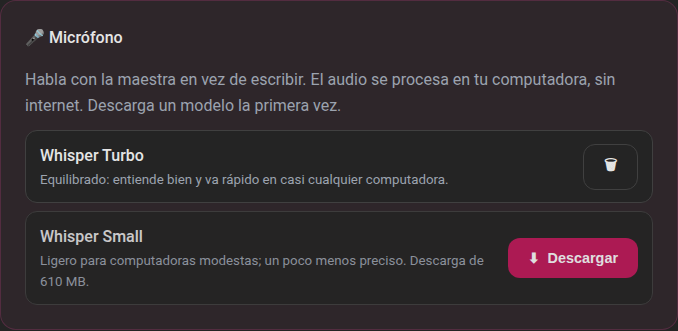
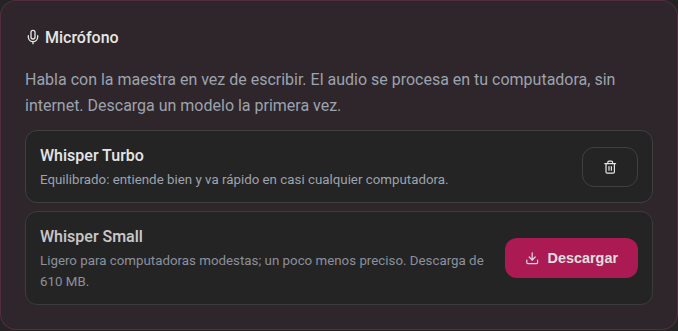
docs: README (es/en), instalación, capturas nuevas y bitácora del rediseño de la interfaz

diff --git a/scripts/capturas/capturas.spec.ts b/scripts/capturas/capturas.spec.ts
@@ -67,7 +67,7 @@ test('configuracion de la interfaz', async ({ page }) => {
   await open(page);
   await page.getByRole('button', { name: /configuraci[oó]n/i }).click();
   await page.waitForSelector('.ui-prefs');
-  await page.locator('.provider-section').first().screenshot({ path: `${DIR}/configuracion.png` });
+  await page.locator('#set-interface .provider-section').screenshot({ path: `${DIR}/configuracion.png` });
 });
 
 test('modelos de voz para el microfono', async ({ page }) => {
@@ -145,4 +145,22 @@ test('practicar dictando operaciones', async ({ page }) => {
   await expect(page.getByRole('complementary', { name: /dicta las operaciones/i })).toBeVisible();
   await chalkDone(page);
   await page.locator('.workspace').screenshot({ path: `${DIR}/practica.png` });
+});
+
+test('configuracion con indice de secciones', async ({ page }) => {
+  await open(page);
+  await page.getByRole('button', { name: /configuraci[oó]n/i }).click();
+  await expect(page.getByRole('navigation', { name: /secciones/i })).toBeVisible();
+  await page.getByRole('dialog').screenshot({ path: `${DIR}/ajustes-indice.png` });
+});
+
+test('movil: pizarra a la vista y chat plegable', async ({ page }) => {
+  await page.setViewportSize({ width: 390, height: 844 });
+  await open(page);
+  await solve(page, '2x + 4 = 10');
+  await chalkDone(page);
+  await page.screenshot({ path: `${DIR}/movil.png` });
+  await page.getByRole('button', { name: 'Preguntas' }).click();
+  await expect(page.getByLabel('Tu pregunta para la maestra')).toBeVisible();
+  await page.screenshot({ path: `${DIR}/movil-chat.png` });
 });

diff --git a/README.md b/README.md
@@ -15,7 +15,12 @@ Aplicación de escritorio (Tauri v2 + React/TypeScript) que enseña a niños a r
 - **Visuales**: balanza para ecuaciones, pizzas y rectángulos para fracciones.
 - **Chat de preguntas** sobre cada paso (`StepChat`).
 - **Micrófono**: dicta tus preguntas en voz alta; Whisper transcribe el audio en la propia computadora, sin internet. El modelo de voz se descarga desde Configuración › Micrófono.
-- **Botones junto al problema**: **🎤 Hablar** dicta el problema al cuadro de texto y **➕➗ Símbolos** abre un teclado de símbolos (`+ − × ÷ = / ( ) √ ² ³ ^ x y .`) para quien no sabe sacarlos con el teclado. Ambos son accesibles (nombre hablado, foco visible, Escape cierra).
+- **Voz y símbolos dentro del cuadro del problema**: **Hablar** dicta el problema al cuadro de texto y **Símbolos** abre un teclado de símbolos (`+ − × ÷ = / ( ) √ ² ³ ^ x y .`) para quien no sabe sacarlos con el teclado. Ambos son accesibles (nombre hablado, foco visible, Escape cierra).
+- **La entrada se aparta cuando hay pizarra**: el cuadro del problema se reduce a una barra con el problema y **Nuevo problema**, y el panel de temas pasa debajo de la pizarra.
+- **Pensada para el celular**: en pantallas estrechas el chat es una hoja plegable fija abajo (se abre al tocar el número de un paso, Escape la cierra) y nada se sale de la pantalla.
+- **Sin modelo, la app lo explica**: lo que necesita IA avisa con un botón **Elegir un modelo** que abre Configuración, y el botón **Resolver** dice por qué está deshabilitado.
+- **Configuración con índice** (*Modelos · Voz · Interfaz · Avanzado*), cabecera fija y botón para cerrar.
+- **Iconos Lucide** (`lucide-react`) en lugar de emojis; solo se conservan los personajes de la maestra y el niño y el 🎉 de celebración.
 - **Cuentas dichas con palabras**: "divide trescientos entre cincuenta" o "multiplica 12 por 3" se resuelven en la pizarra con todo el procedimiento.
 - **Ejemplos desde el chat**: al preguntar, la maestra pregunta si quieres la respuesta aquí o que lo desarrolle en la pizarra; si eliges la pizarra, puedes **borrar y escribir** o ponerlo en **otra pizarra aparte** sin perder la principal.
 - **Practicar dictando operaciones**: en una ecuación de primer grado, el modo práctica deja que el niño dicte operaciones ("sumar 3", "dividir entre 4") y la pizarra las ejecuta paso a paso con la balanza; si no se entiende, la maestra pregunta en vez de ejecutar.
@@ -59,22 +64,24 @@ en `src/lib/board/parse.ts`).
 | ![Pizarras de una en una](docs/capturas/pizarras.png) | ![Configuración de la interfaz](docs/capturas/configuracion.png) |
 | **Pizarras de una en una**: los botones *Pizarra N* cambian de pizarra y *Ver todas* las junta. | **Configuración › Interfaz**: pizarras, reproducción automática, panel de temas y tema. |
 | ![Micrófono](docs/capturas/microfono.png) | ![Dictado en el chat](docs/capturas/chat-microfono.png) |
-| **Configuración › Micrófono**: descarga el modelo de voz una vez; el audio no sale del equipo. | **Hablar en el chat**: pulsa 🎤, habla y el dictado se envía como pregunta. |
+| **Configuración › Micrófono**: descarga el modelo de voz una vez; el audio no sale del equipo. | **Hablar en el chat**: pulsa el micrófono, habla y el dictado se envía como pregunta. |
 | ![Símbolos matemáticos](docs/capturas/simbolos.png) | ![Cuenta dicha con palabras](docs/capturas/divide-palabras.png) |
-| **Símbolos y voz junto al problema**: cada tecla trae su nombre hablado y Escape cierra el panel. | **"divide trescientos entre cincuenta"** se resuelve en la casita, paso a paso. |
+| **Símbolos y voz dentro del cuadro del problema**: cada tecla trae su nombre hablado y Escape cierra el panel. | **"divide trescientos entre cincuenta"** se resuelve en la casita, paso a paso. |
 | ![El chat pregunta cómo quieres la respuesta](docs/capturas/chat-pizarra.png) | ![Ejemplo en otra pizarra](docs/capturas/pizarra-aparte.png) |
 | **Antes de contestar**, la maestra pregunta si quieres la respuesta aquí o desarrollada en la pizarra. | **Otra pizarra aparte**: el ejemplo se resuelve debajo sin tocar la pizarra principal. |
-| ![Practicar dictando operaciones](docs/capturas/practica.png) | |
-| **Practicar dictando**: dices "sumar 3" o "dividir entre 4" y la balanza lo hace en los dos lados. | |
+| ![Practicar dictando operaciones](docs/capturas/practica.png) | ![Configuración con índice](docs/capturas/ajustes-indice.png) |
+| **Practicar dictando**: dices "sumar 3" o "dividir entre 4" y la balanza lo hace en los dos lados. | **Configuración con índice**: *Modelos · Voz · Interfaz · Avanzado* saltan a cada sección y el botón de cerrar queda fijo. |
+| ![Celular: pizarra a la vista](docs/capturas/movil.png) | ![Celular: chat abierto](docs/capturas/movil-chat.png) |
+| **En el celular** la pizarra queda a la vista y el chat es una barra plegable abajo. | **Chat abierto**: se despliega sobre la pizarra y se cierra con Escape o tocando la barra. |
 
 Las capturas se generan con `npm run capturas` (Playwright con el backend simulado de los e2e) y se guardan en
 `docs/capturas/`.
 
 ## Micrófono
 
-1. En **⚙ Configuración › 🎤 Micrófono**, descarga un modelo de voz (Whisper Turbo o Small) la primera vez.
-2. Pulsa **🎤** y habla; al detectar silencio, el audio se transcribe. Hay dos botones de micrófono:
-   - **Junto a "Resolver problema"** (**🎤 Hablar**): lo dicho se escribe en el cuadro del problema, para revisarlo
+1. En **Configuración › Micrófono**, descarga un modelo de voz (Whisper Turbo o Small) la primera vez.
+2. Pulsa el botón del **micrófono** y habla; al detectar silencio, el audio se transcribe. Hay dos botones de micrófono:
+   - **Dentro del cuadro del problema** (**Hablar**): lo dicho se escribe en el cuadro del problema, para revisarlo
      antes de resolver.
    - **En el chat de un paso**: lo dicho se envía como pregunta.
 3. Todo se procesa en la computadora, sin internet. El micrófono es de quien lo activó: lo dictado en el cuadro del
@@ -84,7 +91,7 @@ Las capturas se generan con `npm run capturas` (Playwright con el backend simula
 
 ## Símbolos matemáticos
 
-El botón **➕➗ Símbolos**, junto al cuadro del problema, abre un teclado con `+ − × ÷ = / ( ) √( ² ³ ^ x y .` para quien
+El botón **Símbolos**, dentro del cuadro del problema (abajo a la derecha), abre un teclado con `+ − × ÷ = / ( ) √( ² ³ ^ x y .` para quien
 no sabe sacarlos con el teclado. Cada tecla escribe el símbolo donde está el cursor y trae su nombre hablado
 ("raíz cuadrada", "al cuadrado") para lectores de pantalla; **Escape** lo cierra y devuelve el foco al botón
 (`src/components/MathKeypad.tsx`).
@@ -108,7 +115,9 @@ explica al modelo cuándo usar la etiqueta.
 
 ## Configuración de la interfaz
 
-En **⚙ Configuración › 🎨 Interfaz** (se guarda en el equipo):
+**Configuración** se abre como un diálogo con la cabecera fija y un índice (*Modelos · Voz · Interfaz · Avanzado*) que salta a cada sección; **Modelos** va primero porque es lo que hace falta para empezar. Se cierra con la ✕ o con Escape.
+
+En **Configuración › Interfaz** (se guarda en el equipo):
 
 - **Pizarras de un proceso largo**: *Una a la vez* (por defecto, ahorra espacio) o *Todas juntas*. En la pizarra,
   el botón *Ver todas* / *Una a la vez* cambia solo ese problema.
@@ -128,7 +137,7 @@ En **⚙ Configuración › 🎨 Interfaz** (se guarda en el equipo):
   Kokoro (~334 MB, más expresiva, con voz de mujer y de hombre), en español o en inglés (según el idioma de la app),
   o se usa la voz del sistema (`espeak-ng`; la app detecta tu distribución y te dice qué instalar si falta). La maestra lee las
   matemáticas en palabras ("2x + 3y = 6" → "dos equis más tres ye igual a seis") y la pizarra avanza al terminar cada
-  audio. El botón 🔈 junto a la pizarra enciende la lectura. En el chat de preguntas la maestra también lee sus respuestas (nunca lo que escribes tú), y cada respuesta tiene un botón 🔊 para escucharla de nuevo.
+  audio. El botón **Leer en voz alta** junto a la pizarra enciende la lectura. En el chat de preguntas la maestra también lee sus respuestas (nunca lo que escribes tú), y cada respuesta tiene un botón de altavoz para escucharla de nuevo.
 
 ## Próximamente
 
@@ -208,7 +217,7 @@ open matematicas-teacher_0.1.0_arm64_macOS.dmg
 
 ### Primer uso
 
-1. Entra en **⚙ Configuración** y descarga un modelo de la lista (todos leen dibujos).
+1. Entra en **Configuración** y descarga un modelo de la lista (todos leen dibujos).
 2. Pulsa **Select**: pasa a *Active Model* y se carga en memoria.
 3. Escribe o dibuja un problema en la pizarra.
 
@@ -257,8 +266,9 @@ src/                  Frontend React (Vite + TypeScript)
   lib/mic.ts          Eventos y comandos del micrófono; useMic.ts dicta en una caja de texto
   lib/capabilities.ts Temas que explica la app (panel "¿Hasta dónde llega la maestra?")
   lib/uiPrefs.ts      Preferencias de la interfaz
+  lib/contrast.test.ts Contraste WCAG de la paleta (tema claro, oscuro y pizarra)
   components/         Chalkboard, BoardVisual, LevelsPanel, UiPrefsSection, DrawingCanvas, StepChat, PracticeBoard,
-                      MathKeypad, ModelBrowser
+                      MathKeypad, ModelBrowser, Ico (iconos Lucide)
   pages/              MainApp, Settings
 src-tauri/            Backend Rust (Tauri v2)
   src/ai/             Motor de IA (llama.cpp, visión mtmd)
@@ -277,8 +287,8 @@ LGPL-2.1 — ver [LICENSE](LICENSE).
 ## Accesibilidad y seguridad
 
 - **Accesibilidad (WCAG 2.2 AA)**: se usa con teclado y lector de pantalla (enlace para saltar al contenido, diálogo con
-  foco atrapado y Esc, botones con nombre, estados anunciados), contraste de color de al menos 4.5:1, foco visible,
-  objetivos táctiles de 40 px (48 px en los botones de voz y símbolos), y respeta *reducir movimiento*. `npx playwright test e2e/a11y.spec.ts` revisa la
+  foco atrapado y Esc, botones con nombre, estados anunciados), contraste de color WCAG AA (texto 4.5:1; bordes de campos, foco e iconos 3:1) en tema claro, oscuro y en la pizarra, foco visible,
+  objetivos táctiles de 40 px, y respeta *reducir movimiento*. `src/lib/contrast.test.ts` fija esos ratios leyendo los colores de `index.css`; `npx playwright test e2e/a11y.spec.ts` revisa la
   interfaz con axe-core en tema claro, oscuro y en inglés.
 - **Seguridad**: la ventana web tiene un CSP estricto y solo el permiso de escuchar eventos (sin acceso a archivos,
   diálogos ni enlaces); el backend limita el tamaño de lo que recibe; las voces se descargan por HTTPS y se

diff --git a/README.en.md b/README.en.md
@@ -15,7 +15,12 @@ A desktop app (Tauri v2 + React/TypeScript) that teaches kids to solve math prob
 - **Visuals**: balance scale for equations, pizzas and rectangles for fractions.
 - **Question chat** about each step (`StepChat`).
 - **Microphone**: ask your questions out loud; Whisper transcribes the audio on the device, with no internet. The speech model is downloaded from Settings › Microphone.
-- **Buttons next to the problem**: **🎤 Speak** dictates the problem into the text box and **➕➗ Symbols** opens a keypad of math symbols (`+ − × ÷ = / ( ) √ ² ³ ^ x y .`) for anyone who does not know how to type them. Both are accessible (spoken names, visible focus, Escape closes).
+- **Voice and symbols inside the problem box**: **Speak** dictates the problem into the text box and **Symbols** opens a keypad of math symbols (`+ − × ÷ = / ( ) √ ² ³ ^ x y .`) for anyone who does not know how to type them. Both are accessible (spoken names, visible focus, Escape closes).
+- **The input steps aside when there is a board**: the problem box shrinks to a bar with the problem and **New problem**, and the topics panel moves below the board.
+- **Built for phones**: on narrow screens the chat is a collapsible sheet fixed at the bottom (it opens when you tap a step number, Escape closes it) and nothing overflows the screen.
+- **No model? The app says so**: anything that needs AI shows a **Pick a model** button that opens Settings, and the **Solve** button says why it is disabled.
+- **Settings with an index** (*Models · Voice · Interface · Advanced*), a fixed header and a close button.
+- **Lucide icons** (`lucide-react`) instead of emojis; only the teacher and child characters and the 🎉 celebration are kept.
 - **Sums said in words** (Spanish): "divide trescientos entre cincuenta" or "multiplica 12 por 3" are solved on the board with the full procedure.
 - **Examples from the chat**: when you ask something, the teacher asks whether you want the answer here or worked out on the board; if you pick the board you can **erase and write** or put it on **another board** without losing the main one.
 - **Practice by dictating operations**: on a first-degree equation, practice mode lets the child dictate operations ("add 3", "divide by 4") and the board runs them step by step on the balance scale; if it is not understood, the teacher asks instead of acting.
@@ -59,22 +64,24 @@ solved with the same column procedure, not just the result (`parseArithmetic` an
 | ![One board at a time](docs/capturas/pizarras.png) | ![Interface settings](docs/capturas/configuracion.png) |
 | **One board at a time**: the *Pizarra N* buttons switch boards and *Ver todas* shows them together. | **Settings › Interface**: boards, autoplay, topics panel, and theme. |
 | ![Microphone](docs/capturas/microfono.png) | ![Dictation in the chat](docs/capturas/chat-microfono.png) |
-| **Settings › Microphone**: download the speech model once; audio never leaves the device. | **Talking in the chat**: press 🎤, speak, and the dictation is sent as your question. |
+| **Settings › Microphone**: download the speech model once; audio never leaves the device. | **Talking in the chat**: press the microphone, speak, and the dictation is sent as your question. |
 | ![Math symbols](docs/capturas/simbolos.png) | ![Sum said in words](docs/capturas/divide-palabras.png) |
-| **Symbols and voice next to the problem**: every key has a spoken name and Escape closes the panel. | **"divide trescientos entre cincuenta"** is solved in the long-division house, step by step. |
+| **Symbols and voice inside the problem box**: every key has a spoken name and Escape closes the panel. | **"divide trescientos entre cincuenta"** is solved in the long-division house, step by step. |
 | ![The chat asks how you want the answer](docs/capturas/chat-pizarra.png) | ![Example on another board](docs/capturas/pizarra-aparte.png) |
 | **Before answering**, the teacher asks whether you want the answer here or worked out on the board. | **Another board**: the example is solved below without touching the main board. |
-| ![Practice by dictating](docs/capturas/practica.png) | |
-| **Practice by dictating**: say "add 3" or "divide by 4" and the scale does it on both sides. | |
+| ![Practice by dictating](docs/capturas/practica.png) | ![Settings with an index](docs/capturas/ajustes-indice.png) |
+| **Practice by dictating**: say "add 3" or "divide by 4" and the scale does it on both sides. | **Settings with an index**: *Models · Voice · Interface · Advanced* jump to each section and the close button stays in place. |
+| ![Phone: board in view](docs/capturas/movil.png) | ![Phone: chat open](docs/capturas/movil-chat.png) |
+| **On a phone** the board stays in view and the chat is a collapsible bar at the bottom. | **Chat open**: it slides over the board and closes with Escape or by tapping the bar. |
 
 Screenshots are generated with `npm run capturas` (Playwright with the e2e mocked backend) and saved to
 `docs/capturas/`.
 
 ## Microphone
 
-1. In **⚙ Configuración › 🎤 Micrófono**, download a speech model (Whisper Turbo or Small) the first time.
-2. Press **🎤** and speak; when silence is detected, the audio is transcribed. There are two microphone buttons:
-   - **Next to "Resolver problema"** (**🎤 Speak**): what you say is typed into the problem box, so you can check it
+1. In **Settings › Microphone**, download a speech model (Whisper Turbo or Small) the first time.
+2. Press the **microphone** button and speak; when silence is detected, the audio is transcribed. There are two microphone buttons:
+   - **Inside the problem box** (**Speak**): what you say is typed into the problem box, so you can check it
      before solving.
    - **In a step's chat**: what you say is sent as a question.
 3. Everything runs on the computer, with no internet. The microphone belongs to whoever turned it on: what is dictated
@@ -84,7 +91,7 @@ Screenshots are generated with `npm run capturas` (Playwright with the e2e mocke
 
 ## Math symbols
 
-The **➕➗ Symbols** button next to the problem box opens a keypad with `+ − × ÷ = / ( ) √( ² ³ ^ x y .` for anyone who
+The **Symbols** button inside the problem box (bottom right) opens a keypad with `+ − × ÷ = / ( ) √( ² ³ ^ x y .` for anyone who
 does not know how to type them. Each key writes the symbol at the cursor and has a spoken name ("square root",
 "squared") for screen readers; **Escape** closes it and returns focus to the button (`src/components/MathKeypad.tsx`).
 
@@ -107,7 +114,9 @@ model when to use the tag.
 
 ## Interface settings
 
-In **⚙ Configuración › 🎨 Interfaz** (saved on the computer):
+**Settings** opens as a dialog with a fixed header and an index (*Models · Voice · Interface · Advanced*) that jumps to each section; **Models** comes first because it is what you need to get started. It closes with the ✕ or with Escape.
+
+In **Settings › Interface** (saved on the computer):
 
 - **Boards for long solutions**: *Una a la vez* (one at a time, the default, saves space) or *Todas juntas* (all
   together). On the board, the *Ver todas* / *Una a la vez* button changes it just for that problem.
@@ -125,7 +134,7 @@ In **⚙ Configuración › 🎨 Interfaz** (saved on the computer):
 - **Teacher voice** (offline): in Settings, download a natural voice — Piper (~64 MB, fast) or Kokoro (~334 MB,
   more expressive, female and male voices) — in Spanish or English (following the app language), or use the system voice (`espeak-ng`; the app detects your distro
   and tells you what to install if it is missing). The teacher reads math as words
-  ("2x + 3y = 6" → "dos equis más tres ye igual a seis") and the board advances when each audio clip ends. The 🔈
+  ("2x + 3y = 6" → "dos equis más tres ye igual a seis") and the board advances when each audio clip ends. The **Read aloud**
   button next to the board turns reading on.
 
 ## Coming soon
@@ -201,7 +210,7 @@ chmod +x matematicas-teacher_0.1.0_amd64_con-GPU-NVIDIA.AppImage
 
 ### First use
 
-1. Open **⚙ Settings** and download a model from the list (all of them read drawings).
+1. Open **Settings** and download a model from the list (all of them read drawings).
 2. Click **Select**: it becomes the *Active Model* and is loaded into memory.
 3. Type or draw a problem on the chalkboard.
 
@@ -249,8 +258,9 @@ src/                  React frontend (Vite + TypeScript)
   lib/mic.ts          Microphone events and commands; useMic.ts dictates into a text box
   lib/capabilities.ts Topics the app explains ("¿Hasta dónde llega la maestra?" panel)
   lib/uiPrefs.ts      Interface preferences
+  lib/contrast.test.ts WCAG contrast of the palette (light, dark and board)
   components/         Chalkboard, BoardVisual, LevelsPanel, UiPrefsSection, DrawingCanvas, StepChat, PracticeBoard,
-                      MathKeypad, ModelBrowser
+                      MathKeypad, ModelBrowser, Ico (Lucide icons)
   pages/              MainApp, Settings
 src-tauri/            Rust backend (Tauri v2)
   src/ai/             AI engine (llama.cpp, mtmd vision)
@@ -269,8 +279,8 @@ LGPL-2.1 — see [LICENSE](LICENSE).
 ## Accessibility and security
 
 - **Accessibility (WCAG 2.2 AA)**: usable with keyboard and screen reader (skip link, dialog with focus trap and Esc,
-  named buttons, announced states), colour contrast of at least 4.5:1, visible focus, 40 px touch targets (48 px on the voice and symbols buttons), and it
-  honours *reduce motion*. `npx playwright test e2e/a11y.spec.ts` audits the UI with axe-core in light, dark and English.
+  named buttons, announced states), WCAG AA colour contrast (text 4.5:1; field borders, focus and icons 3:1) in the light theme, the dark theme and the board, visible focus, 40 px touch targets, and it
+  honours *reduce motion*. `src/lib/contrast.test.ts` pins those ratios by reading the colours from `index.css`; `npx playwright test e2e/a11y.spec.ts` audits the UI with axe-core in light, dark and English.
 - **Security**: the web view has a strict CSP and only the permission to listen to events (no file, dialog or link
   access); the backend caps the size of what it receives; voices are downloaded over HTTPS and verified against a
   SHA-256 before being installed.

diff --git a/BITACORA.md b/BITACORA.md
@@ -686,3 +686,45 @@ y `examples/`); con enlace estático salen `libggml-metal.a`, `libggml-cpu.a`, e
 - Pendiente: selector de métodos de resolución (método japonés para multiplicar, tanteo, "aislar y elevar al
   cuadrado" en raíces), que necesita un parámetro `method` en `solve_problem`.
 
+
+## 2 nov 2026 — v0.6.0: rediseño de la interfaz (móvil, accesibilidad e iconos)
+
+Se clasificó la UI (shell, entrada, aprendizaje, conversación, orientación, configuración, primitivas, feedback) y se
+fue mejorando por objetivos, comprobando cada uno con Playwright a 390 px y en escritorio.
+
+- **Desbordamiento en móvil:** el header no se envolvía y `.header-actions` medía 456 px en 375 útiles. Se envuelve a
+  ≤640 px.
+- **Entrada que se aparta:** con pizarra, el formulario se oculta con `hidden` (conserva texto y dibujo) y queda una
+  barra con el problema, *Nuevo problema* y el chip de práctica. La barra usa un `h2`: sin él axe marcó `heading-order`.
+  La caja "lo que leí" del modo dibujo sigue visible para corregir lecturas.
+- **Sin modelo:** `solveText`/`solveProblem` avisan antes de llamar al backend y el aviso y el error traen el botón
+  *Elegir un modelo* (`onOpenSettings`). Los e2e que resolvían con IA pasaban solo porque el mock respondía sin modelo:
+  ahora siembran `__e2e_state__` con un modelo activo.
+- **Panel de temas** debajo de la pizarra (con pizarra) y resumen reordenado en móvil.
+- **Chat plegable (≤1100 px):** hoja fija abajo (`useNarrow` con `matchMedia`); cerrada es una barra, abierta ocupa el 72 %.
+  Se abre al pulsar un paso de la pizarra, Escape la cierra y se cierra sola al poner un ejemplo en la pizarra. El botón
+  de tema sube para no taparse. Las tablets en horizontal (≤1100 px) también reciben la hoja.
+- **Campo del problema:** *Hablar* y *Símbolos* van dentro del cuadro (`.problem-field` + `.field-tools`); a ≤640 px solo
+  icono (la etiqueta queda para lectores de pantalla). *Resolver* queda solo debajo.
+- **Ajustes:** cabecera fija con índice de saltos (*Modelos · Voz · Interfaz · Avanzado*), ✕ para cerrar y Modelos primero.
+  Se eligió índice y no pestañas para no reescribir los tests, que asumen todas las secciones montadas. Descubrió un bug
+  latente en `Modal`: la trampa de foco contaba como último elemento uno dentro de un `<details>` cerrado (inalcanzable
+  con Tab); `reachable()` ya lo ignora. El selector "Tamaño del texto" también desbordaba el diálogo en móvil.
+- **Resolver deshabilitado:** pista visible enlazada con `aria-describedby`. No existía estilo `:disabled`: ahora se ven
+  apagados. `.btn` animaba `all` y axe medía la opacidad a medias; la transición ya no incluye la opacidad.
+- **Iconos:** `lucide-react` mediante `Ico` (`1em`, hereda color). 90 emojis de interfaz convertidos; se conservan los
+  avatares y el 🎉. Los 50 de `src/lib/` son contenido de la pizarra y la voz, no iconos.
+- **Contraste (ADA / WCAG AA):** `--border-control` para los bordes de campos (eran 1.2:1 en claro y 1.7:1 en oscuro),
+  gris secundario `#5b6472`, foco de `.solve-tool` con `--focus` y, en oscuro, interruptor y bordes punteados con
+  `--accent`. En la pizarra: el foco de las insignias usaba `--focus` y daba 1.49:1 sobre el verde; ahora `#8fd3ff`. También
+  se aclararon el rosa de resultado, el tono atenuado, la etiqueta de página y la insignia. `src/lib/contrast.test.ts`
+  (62 comprobaciones) lee los colores de `index.css`. El import `?raw` de CSS llega vacío en vitest: se lee con `fs`
+  (`@types/node` como dependencia de desarrollo).
+- **Housekeeping:** `.playwright-mcp/` al `.gitignore`; se borraron `tempp/` (con un clon vacío del remoto), los `.bak` y
+  `dist/`, `test-results/` y `playwright-report/`. Capturas regeneradas y tres nuevas (`ajustes-indice`, `movil`,
+  `movil-chat`); README (es/en) e INSTALACION actualizados (decía *Select*/*Active Model*; la app dice *Usar*/*Activo*).
+- **Estado de pruebas:** 451 unitarios y 78 e2e en verde; `npm run build` correcto.
+- **Pendiente:** celdas columna y "ambas" de los rectángulos de fracciones con la misma luminosidad (0.50), podrían
+  confundirse con daltonismo (falta un patrón); barra de progreso del panel de temas a 2.05:1 (siempre con texto);
+  teclado en pantalla en un móvil real tapando la hoja del chat; `docs/auto-update.md` sin versionar; `instaladores/`
+  (2.2 GB de versiones antiguas, ignorada por git).

diff --git a/docs/INSTALACION.md b/docs/INSTALACION.md
@@ -114,10 +114,11 @@ como arriba, y llama.cpp usa la GPU integrada **Metal** automáticamente. No hay
 
 ## 5. Primer uso
 
-1. Abre la app y entra en **⚙ Configuración**.
-   - Arriba se ve el **hardware detectado**, por ejemplo "GPU: NVIDIA GeForce RTX 5070 Ti" o "CPU".
+1. Abre la app y entra en **Configuración**. Se abre en **Modelos**; el índice de arriba (*Modelos · Voz · Interfaz · Avanzado*) salta a cada sección.
+   - En **Avanzado** se ve el **hardware detectado**, por ejemplo "GPU: NVIDIA GeForce RTX 5070 Ti" o "CPU".
+   - Si no hay modelo elegido, la pantalla principal tiene un botón **Elegir un modelo** que abre este mismo lugar.
 2. **Descarga un modelo** de la lista. Todos leen dibujos.
-   - **⭐ Recomendado para tu PC:** es el de mejor puntaje de matemáticas que cabe en tu GPU; sin GPU,
+   - **Recomendado para tu PC:** es el de mejor puntaje de matemáticas que cabe en tu GPU; sin GPU,
      uno ligero.
    - **Cada tarjeta muestra:**
      - el puntaje de matemáticas publicado por el autor (MATH-Vision o MathVista)
@@ -127,23 +128,24 @@ como arriba, y llama.cpp usa la GPU integrada **Metal** automáticamente. No hay
      - **Medianos** (Qwen 3.5 4B, Qwen 3 VL 4B): buen equilibrio; leen bien la letra a mano.
      - **Grandes** (Qwen 3.5 9B, Gemma 4 12B): necesitan GPU de 8–12 GB; explican mejor.
      - **Muy grandes** (Gemma 4 26B, Qwen 3.5 35B): se reparten entre GPU y RAM; necesitan 32 GB de RAM.
-3. Pulsa **Select** en el modelo descargado: pasa a "Active Model" y se carga en memoria.
-4. Vuelve con **← Volver** y escribe o dibuja un problema.
+3. Pulsa **Usar** en el modelo descargado: pasa a **Activo** y se carga en memoria.
+4. Cierra con la **✕** (o con Escape) y escribe o dibuja un problema.
 
 ### Qué hace cada parte
 
-- **✏ Texto:** escribe por ejemplo `10 x 20`, `2x + 4 = 10`, `1/2 + 1/4 + 10` o
+- **Texto:** escribe por ejemplo `10 x 20`, `2x + 4 = 10`, `1/2 + 1/4 + 10` o
   `raiz cubica de 3x4+7`. La app lo resuelve en la pizarra con el método de la escuela:
   - multiplicación en columna
   - balanza para ecuaciones
   - pizzas para fracciones
   - raíces por tanteo
-- **🎨 Dibujar:** el modelo lee el dibujo y muestra **"Leí esto en tu dibujo"**. Si leyó mal un
+- **Dibujar:** el modelo lee el dibujo y muestra **"Leí esto en tu dibujo"**. Si leyó mal un
   número (por ejemplo una x que era un 7), corrígelo ahí y pulsa **Resolver esto**.
 - **Pizarra:**
-  - los pasos aparecen numerados y se pueden reproducir, pausar o recorrer con ◀ ▶
-  - 🔈 lee en voz alta si el sistema lo permite
-- **💬 Preguntas:** a la derecha de la pizarra. Pregunta por cualquier paso, o pulsa el número de un
+  - los pasos aparecen numerados y se pueden reproducir, pausar o recorrer con **Anterior** / **Siguiente**
+  - **Leer en voz alta** lee en voz alta si el sistema lo permite
+  - al aparecer la pizarra, el cuadro del problema se reduce a una barra; **Nuevo problema** lo vuelve a abrir
+- **Preguntas:** a la derecha de la pizarra (en el celular es una barra plegable abajo). Pregunta por cualquier paso, o pulsa el número de un
   paso en la pizarra para preparar la pregunta.
 
 ## 6. Dónde se guardan los datos
